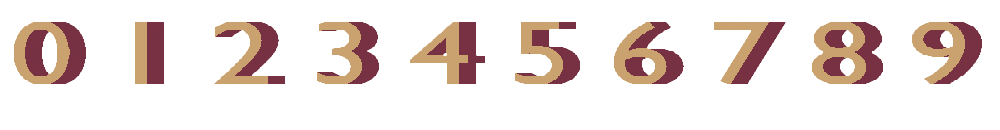
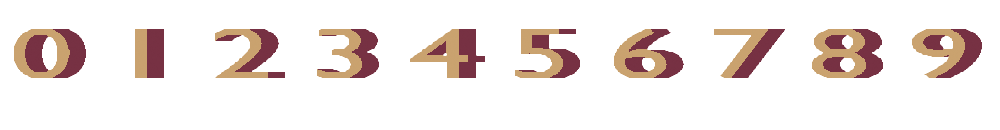
Improved some sprites and star setup

diff --git a/assets/js/main.js b/assets/js/main.js
@@ -572,7 +572,10 @@ function draw()
 		// Draw UFO
 		drawFrame(gameUFO.ufoSpritesheet, rocketSSXPos, rocketSSYPos, 90, 90, 
 				gameUFO.ufoXPos, gameCanvas.height - 100, 90, 90);
-	
+
+		// Draw Star
+		drawFrame(gameStar.starSpritesheet, 0, 0, 90, 90, 0, 0, 90, 90);	
+
 		// Draw Player
 		yPos = 1;
 		while (playerBomb.playerPosition >= 15 * yPos)
@@ -996,8 +999,7 @@ function draw()
 			drawFrame(tcHUDRequired, 200, 0, 100, 130, tcHUDReq2Xpos, 0, 100, 130);
 		}
 		
-		//drawFrame(tcHUDRequired, 0, 0, 100, 130, tcHUDReq1Xpos, 0, 100, 130);
-		//drawFrame(tcHUDRequired, 700, 0, 100, 130, tcHUDReq2Xpos, 0, 100, 130);
+		drawFrame(gameStar.starSpritesheet, 0, 0, 90, 90, 0, 0, 90, 90);
 	
 		// Particle display
 		//drawFrame(particleSprite,  0, 0, 360, 180, playerBomb.playerPosition.xPos, playerBomb.playerPosition.yPos, 360, 180);
@@ -1201,6 +1203,17 @@ function ufoCollisionCheck()
 	return collisionTrigger;
 }
 
+// Invincibility
+function invincibilityCollisionCheck()
+{
+	if (playerPointXRight >= gameStar.star_Xpos + 25 && playerPointX < gameStar.starYpos + 25)
+	{
+		b_isIvincibilityOn = true;
+		gameStar.b_isStarCollected = true;
+	}
+	//collisionTrigger = true;
+}
+
 function makeLevelLayout()
 {
 	gameMusic.play();
@@ -1262,6 +1275,11 @@ function makeLevelLayout()
 		gameTiles[70].tileLocked = true;
 		// No Power Ups
 		// No Trap Tiles
+
+		// Star
+		gameStar.xPos = 100;
+		gameStar.yPos = 100;
+		gameStar.b_isStarCollected = false;
 		
 		break;
 	case levels.Level2: // Level 2

diff --git a/assets/js/declareVars.js b/assets/js/declareVars.js
@@ -64,6 +64,18 @@ function GameObjectUFO()
 	this.ufoTimer = 0;
 }
 
+// Create Star (Invincibility)
+function GameObjectStar()
+{
+	// Sprites
+	this.starSpritesheet = new Image();
+	// Poisitions
+	this.star_Xpos = 0;
+	this.star_Ypos = 0;
+	// Collected Status
+	this.b_isStarCollected = false; // Move offscreen when true
+}
+
 // Tiles
 function GameObjectTile()
 {
@@ -89,6 +101,7 @@ function GameObjectTile()
 let playerBomb = new GameObjectPlayer();
 let gameBalls = [];
 let gameUFO = new GameObjectUFO();
+let gameStar = new GameObjectStar();
 let gameTiles = [];
 
 // Game States
@@ -161,6 +174,9 @@ let tcHUDCurrent1Xpos = 700;
 let tcHUDCurrent2Xpos = 780;
 let tcHUDReq1Xpos = 920;
 let tcHUDReq2Xpos = 1000;
+// Invincibility Collectible
+let b_isIvincibilityOn = false;
+
 
 
 let returnMainMenu = false;
@@ -177,6 +193,10 @@ globeSSXPos = 0;
 globeSSYPos = 0;
 enemySSXPos = 0;
 enemySSYPos = 0;
+// Star Animation
+starAnimation = 0;
+starSSXPos = 0;
+starSSYPos = 0;
 
 wallSSXPos = 0;
 
@@ -296,6 +316,10 @@ tcHUDSlash.src = "assets/img/tcHUDSlash.png";
 // Badges
 pilotBadge = new Image();
 pilotBadge.src = "assets/img/PilotBadge.png";
+
+// Star
+starSpritesheet = new Image();
+starSpritesheet.src = "assets/img/StarSpritesheet.png";
 
 // SFX
 let deathSound = new Audio("assets/audio/DeathSound.wav");
